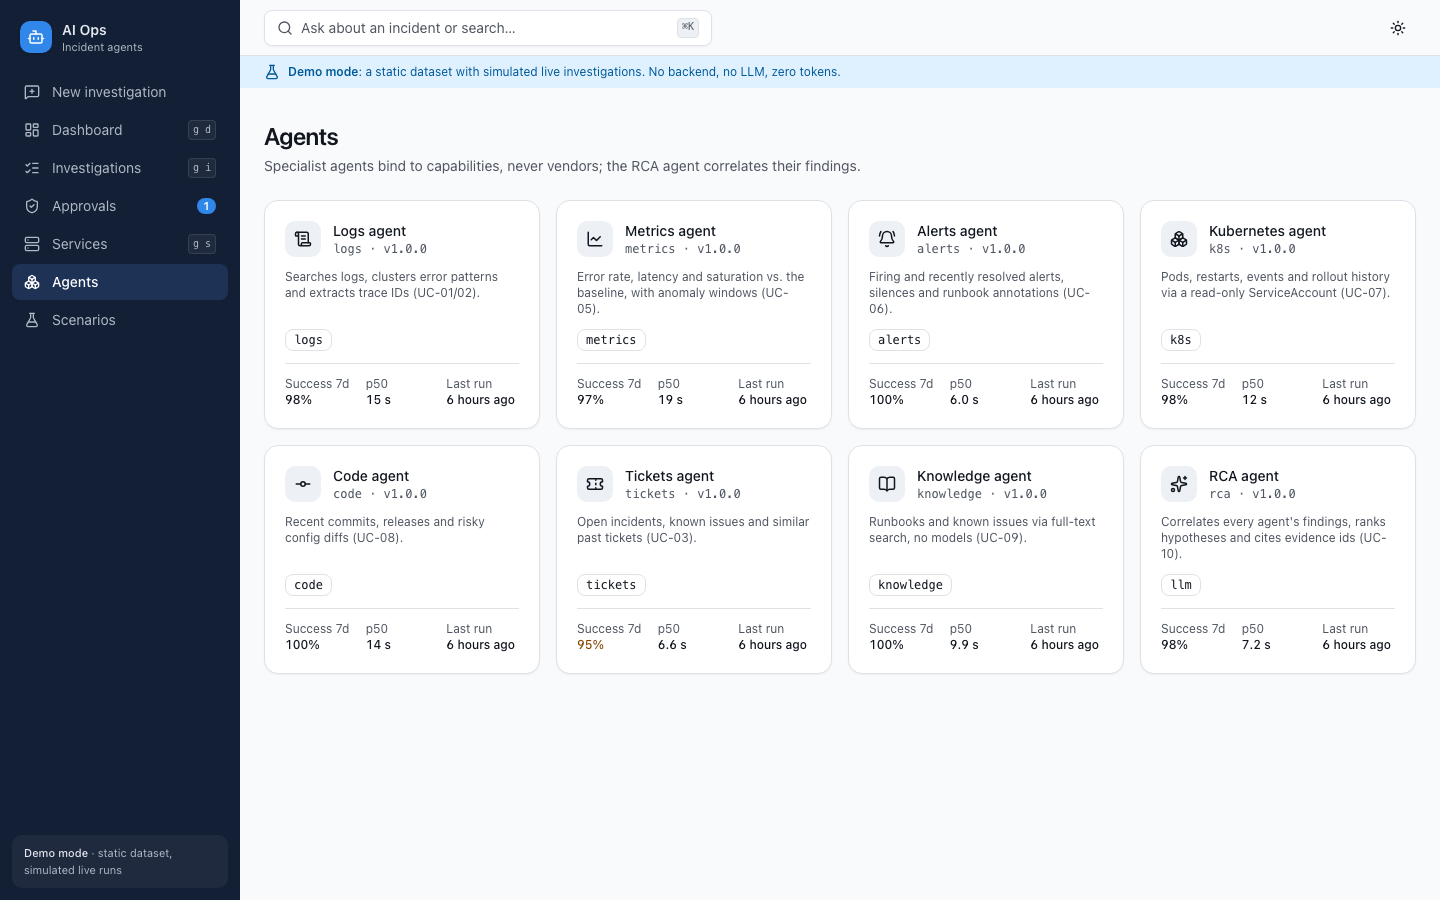
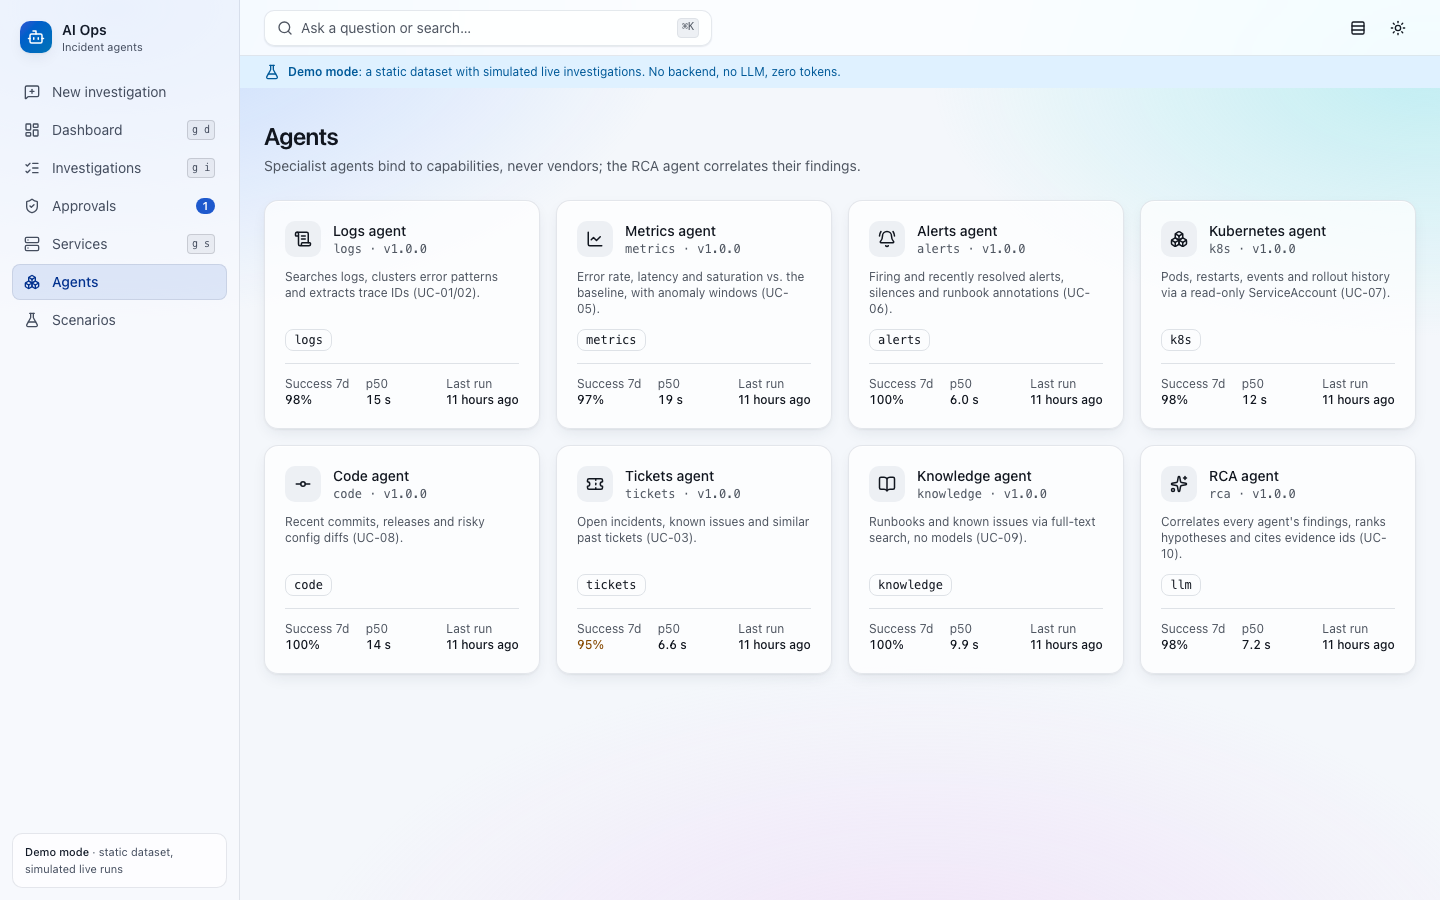
feat(web): glassmorphism redesign, UX upgrades, lazy chunks, visual regression tests
- glass tokens (tinted fills, 1px border + highlight, elev-1..4), animated aurora (transform-only,
  frozen under reduced motion), backdrop-filter only on floating chrome with an opaque fallback
- report: root cause first, 'why it happened' timeline, sticky glass tab bar; evidence drawer with
  arrow-key navigation between citations; copy buttons for queries, log samples and diffs
- chat: optimistic bubbles, typing indicator, quick replies, frosted sticky composer
- live view: glass agent lanes with progress rings; event log pause/resume with 'N new'
- dashboard: KPI sparklines + week-over-week trend; density toggle; responsive header
- perf: lazy live view, approval UI and command palette (type-ahead buffered), no CLS from the
  status strip, LCP headline not faded, zod jitless (no CSP eval probe), favicon
- tests: visual regression (toHaveScreenshot, Linux baselines via make ui-visual-update), new e2e
  and unit tests; regenerated docs/ui/screenshots incl. the chat reply card

Closes #112

diff --git a/frontend/src/components/layout/app-shell.tsx b/frontend/src/components/layout/app-shell.tsx
@@ -4,7 +4,7 @@ import { MenuIcon, SearchIcon } from "lucide-react";
 import type { Route } from "next";
 import dynamic from "next/dynamic";
 import { useRouter } from "next/navigation";
-import { useCallback, useEffect, useMemo, useState } from "react";
+import { useCallback, useEffect, useMemo, useRef, useState } from "react";
 import type * as React from "react";
 
 import { ModeBanner } from "@/components/system-status";
@@ -28,18 +28,68 @@ import { ThemeToggle } from "./theme-toggle";
 
 const NEW_ROUTE = NAV.find((n) => n.href === ("/investigations/new" as Route))?.href ?? null;
 
-// cmdk + the recent-investigations query load on first use (⌘K or the search box), not on every page
+// cmdk + the recent-investigations query stay out of the critical path: the palette mounts (closed)
+// once the browser is idle after load, or at once on first use (⌘K or the search box).
 const CommandPalette = dynamic(() => import("./command-palette").then((m) => m.CommandPalette), {
   ssr: false,
 });
 
+function useWhenIdle(): [boolean, () => void] {
+  const [ready, setReady] = useState(false);
+  useEffect(() => {
+    const w = window as Window & {
+      requestIdleCallback?: (cb: () => void, o?: { timeout: number }) => number;
+      cancelIdleCallback?: (id: number) => void;
+    };
+    // not the first idle gap (that can come while the page still waits for its data, before
+    // LCP): give the page a head start, then wait for an idle moment
+    let id: number | undefined;
+    // the first sign of a user also fetches the chunk, so a quick ⌘K opens it without a wait
+    const preload = () => void import("./command-palette");
+    const events = ["pointermove", "keydown", "touchstart"] as const;
+    events.forEach((e) => window.addEventListener(e, preload, { once: true, passive: true }));
+    const t = setTimeout(() => {
+      if (w.requestIdleCallback)
+        id = w.requestIdleCallback(() => setReady(true), { timeout: 2000 });
+      else setReady(true);
+    }, 2500);
+    return () => {
+      events.forEach((e) => window.removeEventListener(e, preload));
+      clearTimeout(t);
+      if (id !== undefined) w.cancelIdleCallback?.(id);
+    };
+  }, []);
+  return [ready, useCallback(() => setReady(true), [])];
+}
+
 export function AppShell({ children }: { children: React.ReactNode }) {
   const router = useRouter();
   const [paletteOpen, setPaletteOpenState] = useState(false);
-  const [paletteUsed, setPaletteUsed] = useState(false);
-  const setPaletteOpen = useCallback((o: boolean | ((prev: boolean) => boolean)) => {
-    setPaletteUsed(true);
-    setPaletteOpenState(o);
+  const [paletteUsed, markPaletteUsed] = useWhenIdle();
+  // keys typed after ⌘K until the palette input has focus (it may still be loading) are buffered
+  // and handed to it, so a fast "⌘K + type" never loses characters
+  const paletteFocused = useRef(false);
+  const typedAhead = useRef("");
+  // mirrors paletteOpen synchronously: keys typed right after ⌘K (before a re-render) must
+  // already count as palette input, not as g-shortcuts
+  const openRef = useRef(false);
+  const setPaletteOpen = useCallback(
+    (o: boolean | ((prev: boolean) => boolean)) => {
+      markPaletteUsed();
+      const next = typeof o === "function" ? o(openRef.current) : o;
+      openRef.current = next;
+      if (next) paletteFocused.current = false;
+      setPaletteOpenState(next);
+    },
+    [markPaletteUsed],
+  );
+  const takeTypedAhead = useCallback(() => {
+    const s = typedAhead.current;
+    typedAhead.current = "";
+    return s;
+  }, []);
+  const onPaletteFocused = useCallback(() => {
+    paletteFocused.current = true;
   }, []);
   const [helpOpen, setHelpOpen] = useState(false);
   const [mobileOpen, setMobileOpen] = useState(false);
@@ -67,7 +117,14 @@ export function AppShell({ children }: { children: React.ReactNode }) {
         setPaletteOpen((o) => !o);
         return;
       }
-      if (paletteOpen || helpOpen) return;
+      if (openRef.current && !paletteFocused.current) {
+        if (e.key.length === 1 && !e.metaKey && !e.ctrlKey && !e.altKey) {
+          e.preventDefault();
+          typedAhead.current += e.key;
+        } else if (e.key === "Backspace") typedAhead.current = typedAhead.current.slice(0, -1);
+        return;
+      }
+      if (openRef.current || helpOpen) return;
       const hit = seq(e);
       if (!hit) return;
       e.preventDefault();
@@ -79,7 +136,7 @@ export function AppShell({ children }: { children: React.ReactNode }) {
     };
     window.addEventListener("keydown", onKey);
     return () => window.removeEventListener("keydown", onKey);
-  }, [shortcuts, router, paletteOpen, helpOpen, setPaletteOpen]);
+  }, [shortcuts, router, helpOpen, setPaletteOpen]);
 
   const badges = { "/approvals": pending };
   return (
@@ -140,6 +197,8 @@ export function AppShell({ children }: { children: React.ReactNode }) {
           open={paletteOpen}
           onOpenChange={setPaletteOpen}
           canInvestigate={NEW_ROUTE !== null}
+          takeTypedAhead={takeTypedAhead}
+          onFocused={onPaletteFocused}
         />
       )}
       <Dialog open={helpOpen} onOpenChange={setHelpOpen}>

diff --git a/frontend/src/components/layout/command-palette.tsx b/frontend/src/components/layout/command-palette.tsx
@@ -5,7 +5,8 @@ import { MoonIcon, SearchIcon, SparklesIcon, SunIcon } from "lucide-react";
 import type { Route } from "next";
 import { useRouter } from "next/navigation";
 import { useTheme } from "next-themes";
-import { useState } from "react";
+import { useRef, useState } from "react";
+import { flushSync } from "react-dom";
 
 import { StatusBadge } from "@/components/status";
 import { Dialog, DialogContent, DialogDescription, DialogTitle } from "@/components/ui/dialog";
@@ -23,14 +24,34 @@ export function CommandPalette({
   open,
   onOpenChange,
   canInvestigate,
+  takeTypedAhead,
+  onFocused,
 }: {
   open: boolean;
   onOpenChange: (open: boolean) => void;
   canInvestigate: boolean;
+  /** keys typed after ⌘K while the lazily loaded palette was still on its way (drains the buffer) */
+  takeTypedAhead?: () => string;
+  /** the input has focus: from now on keys go straight to it */
+  onFocused?: () => void;
 }) {
   const router = useRouter();
   const { resolvedTheme, setTheme } = useTheme();
   const [search, setSearch] = useState("");
+  const inputRef = useRef<HTMLInputElement>(null);
+  /**
+   * Instead of Radix's autofocus: commit the typed-ahead text first (flushSync, so the DOM input
+   * already holds it), then focus; keys typed until then keep landing in the shell's buffer.
+   */
+  const focusWithTypedAhead = (e: Event) => {
+    e.preventDefault();
+    setTimeout(() => {
+      const typed = takeTypedAhead?.() ?? "";
+      if (typed) flushSync(() => setSearch((s) => s + typed));
+      inputRef.current?.focus();
+      onFocused?.();
+    }, 0);
+  };
   const recent = useInvestigations({ limit: 8 });
 
   const go = (href: Route) => {
@@ -48,7 +69,11 @@ export function CommandPalette({
 
   return (
     <Dialog open={open} onOpenChange={onOpenChange}>
-      <DialogContent className="max-w-xl overflow-hidden p-0" hideClose>
+      <DialogContent
+        className="max-w-xl overflow-hidden p-0"
+        hideClose
+        onOpenAutoFocus={focusWithTypedAhead}
+      >
         <DialogTitle className="sr-only">Command palette</DialogTitle>
         <DialogDescription className="sr-only">
           Ask a question, jump to a page or open an investigation.
@@ -57,6 +82,7 @@ export function CommandPalette({
           <div className="flex items-center gap-2 border-b px-4">
             <SearchIcon aria-hidden className="size-4 text-muted-foreground" />
             <Command.Input
+              ref={inputRef}
               value={search}
               onValueChange={setSearch}
               placeholder={

diff --git a/frontend/e2e/report.spec.ts b/frontend/e2e/report.spec.ts
@@ -70,9 +70,10 @@ test.describe("report view (S1)", () => {
     await expect(page.getByText("Query copied")).toBeVisible();
     expect((await page.evaluate(() => navigator.clipboard.readText())).length).toBeGreaterThan(0);
     await page.keyboard.press("Escape");
+    await expect(drawer).toBeHidden();
 
     // the tab bar sticks under the top bar while the evidence scrolls
-    await page.mouse.wheel(0, 1500);
+    await page.evaluate(() => window.scrollTo(0, 1500));
     await expect
       .poll(async () => (await page.getByTestId("report-tabs").boundingBox())?.y ?? -1)
       .toBeLessThan(80);

diff --git a/frontend/e2e/screenshots.spec.ts b/frontend/e2e/screenshots.spec.ts
@@ -44,7 +44,8 @@ for (const theme of THEMES) {
     await page.getByRole("button", { name: "Which agents do you have?" }).click();
     await expect(page.getByTestId("answer-card")).toBeVisible();
     await page.waitForTimeout(600);
-    await page.screenshot({ path: `${OUT}/chat-reply-${theme}.png`, fullPage: true });
+    // viewport only: the composer is sticky, a full-page capture would pin it mid-page
+    await page.screenshot({ path: `${OUT}/chat-reply-${theme}.png` });
   });
 
   test(`live run (${theme})`, async ({ page }) => {

diff --git a/frontend/src/lib/api/schemas.ts b/frontend/src/lib/api/schemas.ts
@@ -6,6 +6,10 @@
  */
 import { z } from "zod";
 
+// The CSP has no 'unsafe-eval': zod's JIT would probe `new Function` on first parse and log a CSP
+// violation (Lighthouse best-practices). The interpreted parser is plenty fast for our payloads.
+z.config({ jitless: true });
+
 const isoDate = z.string().min(1);
 const nullableStr = z.string().nullable().optional();
 

diff --git a/frontend/README.md b/frontend/README.md
@@ -36,6 +36,25 @@ browser only talks to `:3100`, and `src/app/api/[...path]/route.ts` proxies REST
 | `src/components/`            | layout (sidebar, ⌘K palette, shortcuts), status badges, charts                             |
 | `e2e/`                       | Playwright specs (demo mode)                                                               |
 
+## Visual design (glass)
+
+Tokens live in `src/app/globals.css` (light + dark):
+
+- **Surfaces:** `glass` (cards: a _tinted_ translucent fill + 1px border + inner highlight +
+  `--elev-2`) and `glass-chrome` (topbar, dialogs, drawers, ⌘K, the sticky chat composer and report
+  tab bar: `backdrop-filter` blur). Only floating chrome blurs, and only small areas: cards sit on
+  the already-soft aurora, so a blur there would cost paint time for no visual gain. Without
+  `backdrop-filter` support, `glass-chrome` falls back to an opaque tinted fill.
+- **Elevation:** `--elev-1..4` (`shadow-elev-*`); `lift` = hover lift + glow for interactive cards.
+- **Aurora:** one fixed, composited layer (`.aurora`) animating `transform` only; frozen under
+  `prefers-reduced-motion`.
+- **Density:** `html[data-density=compact]` (topbar toggle, per browser) sets `--pad`/`--row-y`.
+- Text on glass keeps WCAG AA (axe runs in every e2e spec).
+
+Visual regression: `e2e/visual.spec.ts` (`toHaveScreenshot`, dashboard/report/chat × light/dark,
+1.5% tolerance). Baselines are Linux-only (CI); `make ui-visual-update` regenerates them in the
+pinned Playwright container.
+
 ## Configuration
 
 See [`.env.example`](.env.example). `NEXT_PUBLIC_*` values are inlined at build time.
